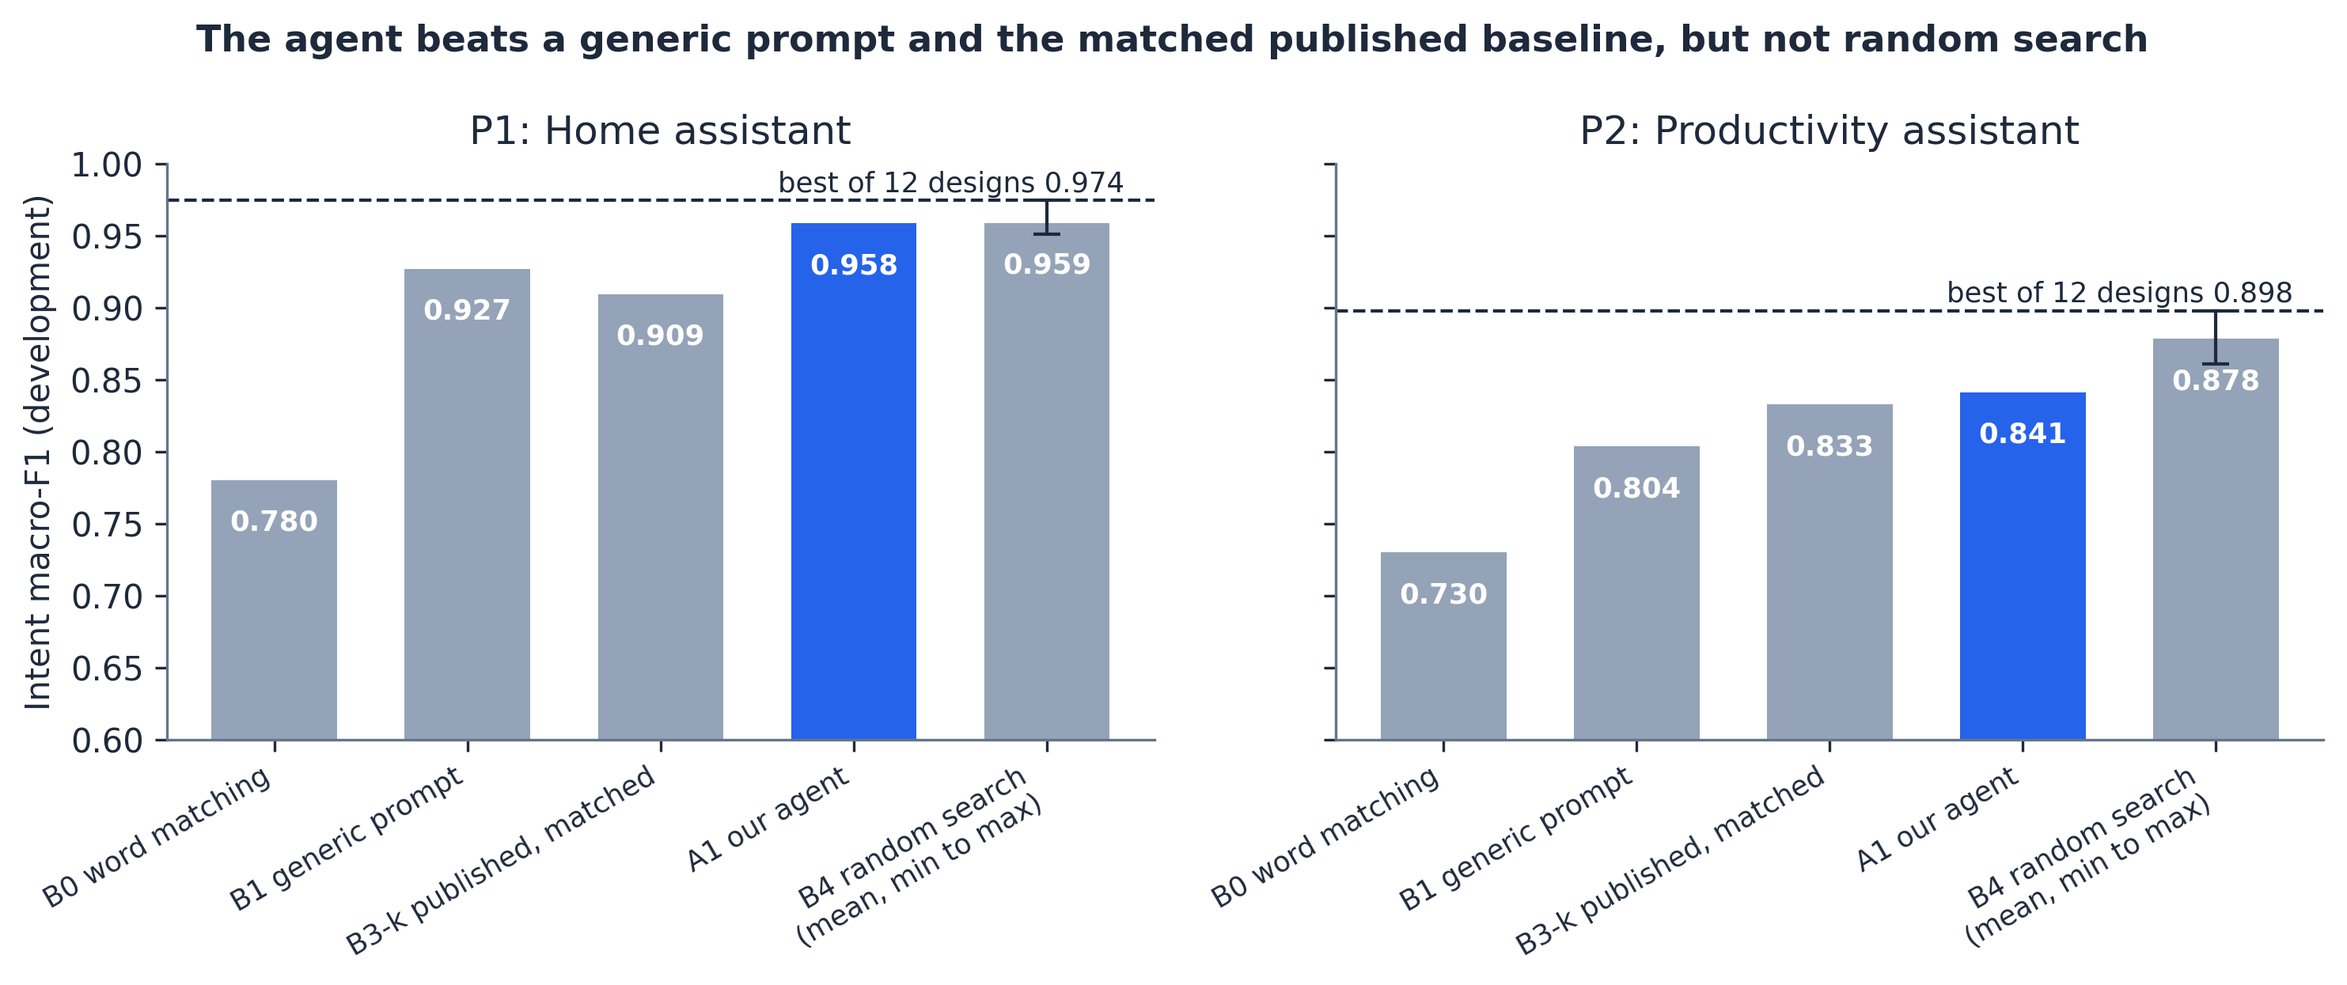
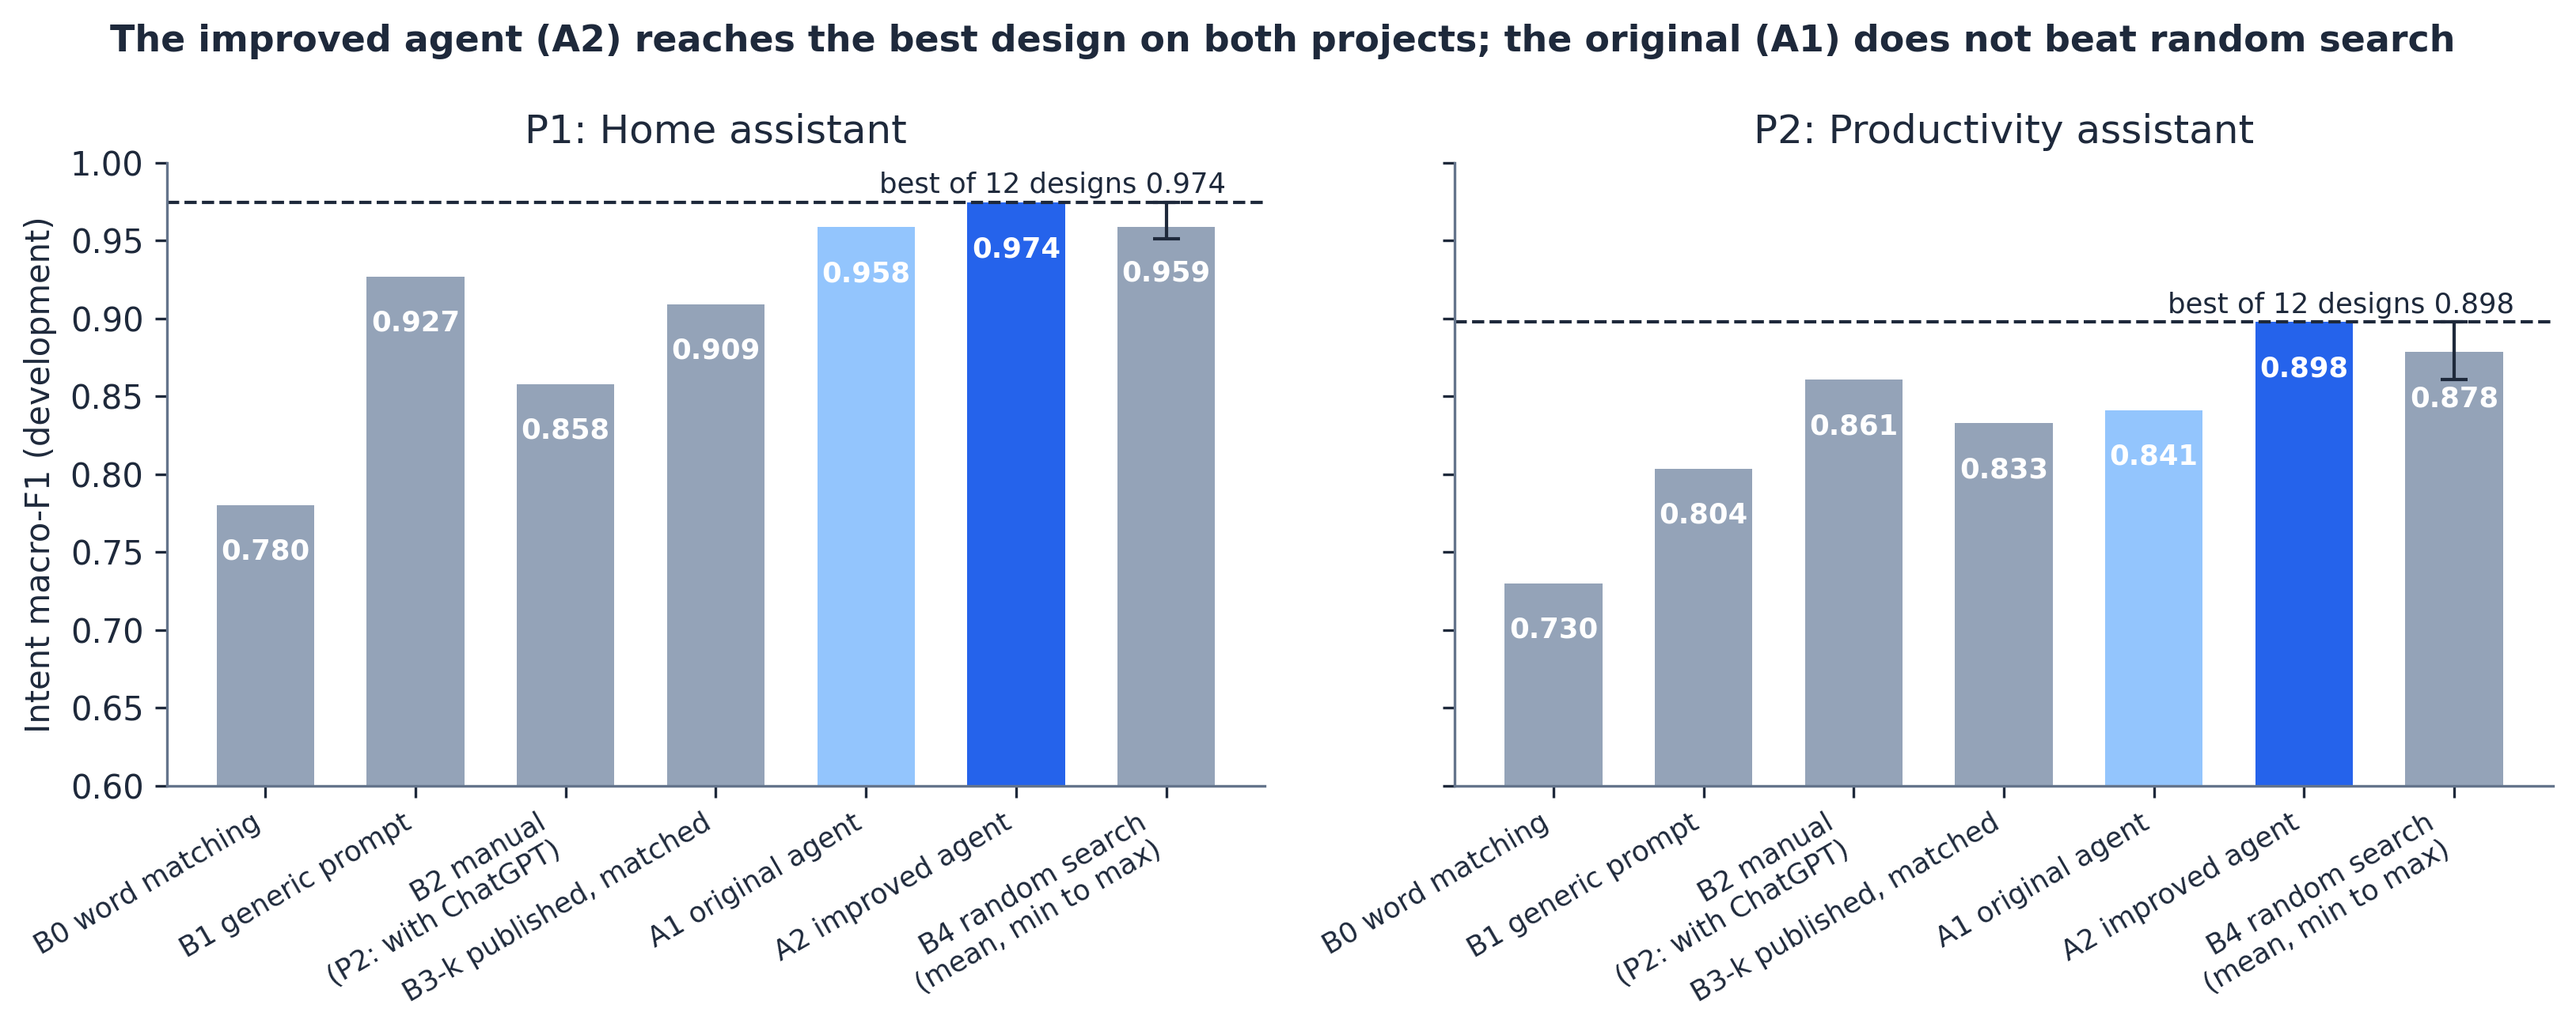
Figures include A2 and B2

diff --git a/scripts/make_figures.py b/scripts/make_figures.py
@@ -24,7 +24,8 @@ ROOT = Path(__file__).resolve().parents[1]
 RUNS = ROOT / "runs"
 OUT = ROOT / "reports" / "figures"
 
-AGENT = "#2563eb"   # the system under study
+AGENT = "#2563eb"   # the system under study (A2, the improved agent)
+A1_COL = "#93c5fd"  # the original agent
 OTHER = "#94a3b8"   # baselines
 REF = "#cbd5e1"     # references that are not matched comparisons
 INK = "#1e293b"
@@ -79,8 +80,9 @@ def save(fig, name: str, caption: str) -> None:
 
 def fig_main() -> None:
     systems = [("B0 word matching", "B0", OTHER), ("B1 generic prompt", "B1", OTHER),
-               ("B3-k published, matched", "B3-k", OTHER), ("A1 our agent", "A1", AGENT)]
-    fig, axes = plt.subplots(1, 2, figsize=(10, 4.2), sharey=True)
+               ("B2 manual\n(P2: with ChatGPT)", "B2", OTHER), ("B3-k published, matched", "B3-k", OTHER),
+               ("A1 original agent", "A1", A1_COL), ("A2 improved agent", "A2", AGENT)]
+    fig, axes = plt.subplots(1, 2, figsize=(11, 4.4), sharey=True)
     for ax, project in zip(axes, ("P1", "P2")):
         names, values, colours = [], [], []
         for label, system, colour in systems:
@@ -109,8 +111,8 @@ def fig_main() -> None:
         ax.set_ylim(0.6, 1.0)
         ax.set_title(f"{project}: {'Home assistant' if project == 'P1' else 'Productivity assistant'}")
     axes[0].set_ylabel("Intent macro-F1 (development)")
-    fig.suptitle("The agent beats a generic prompt and the matched published baseline, "
-                 "but not random search", fontsize=11, fontweight="bold")
+    fig.suptitle("The improved agent (A2) reaches the best design on both projects; "
+                 "the original (A1) does not beat random search", fontsize=11, fontweight="bold")
     save(fig, "fig1_main_comparison.png",
          "Intent macro-F1 on 100 development cases per project. B4-random is 5 seeds "
          "(bar = mean, whisker = min to max). Dashed line = best of all 12 designs.")
@@ -120,16 +122,16 @@ def fig_main() -> None:
 
 
 def fig_entity() -> None:
-    systems = [("B1", OTHER), ("A1", AGENT), ("B3-k", "#475569"), ("B3-full", REF)]
-    labels = {"B1": "B1 generic prompt", "A1": "A1 our agent", "B3-k": "B3-k published, matched",
-              "B3-full": "B3-full, all data\n(reference only)"}
+    systems = [("B1", OTHER), ("A1", A1_COL), ("A2", AGENT), ("B3-k", "#475569"), ("B3-full", REF)]
+    labels = {"B1": "B1 generic prompt", "A1": "A1 original agent", "A2": "A2 improved agent",
+              "B3-k": "B3-k published, matched", "B3-full": "B3-full, all data\n(reference only)"}
     fig, axes = plt.subplots(1, 2, figsize=(10, 4), sharey=True)
-    width = 0.2
+    width = 0.16
     for ax, metric, title in zip(axes, ("intent_macro_f1", "entity_span_f1"),
                                  ("Intent macro-F1", "Entity span F1")):
         for i, (system, colour) in enumerate(systems):
             values = [primary(p, system)[metric] for p in ("P1", "P2")]
-            xs = [x + (i - 1.5) * width for x in range(2)]
+            xs = [x + (i - 2) * width for x in range(2)]
             ax.bar(xs, values, width, color=colour, label=labels[system],
                    hatch="//" if system == "B3-full" else None, edgecolor="white")
             for x, v in zip(xs, values):
@@ -139,9 +141,9 @@ def fig_entity() -> None:
         ax.set_title(title)
     axes[0].set_ylabel("Score (development)")
     handles, names = axes[0].get_legend_handles_labels()
-    fig.legend(handles, names, loc="lower center", ncol=4, frameon=False, fontsize=8.5,
+    fig.legend(handles, names, loc="lower center", ncol=5, frameon=False, fontsize=8.5,
                bbox_to_anchor=(0.5, -0.08))
-    fig.suptitle("The agent is strong on intent but weakest on entity extraction",
+    fig.suptitle("A2 lifts entity extraction above B1 and B3-k; B3-full, with 10-30x more data, stays the reference",
                  fontsize=11, fontweight="bold")
     save(fig, "fig2_intent_vs_entity.png",
          "B3-full trains on 10 to 30 times more data and is an upper reference, not a matched comparison.")

diff --git a/reports/figures/SOURCES.md b/reports/figures/SOURCES.md
@@ -4,14 +4,18 @@ Generated by `python scripts/make_figures.py`. Every value is read from the run 
 
 - P1 B0: `20261011_1614_P1_B0_0`
 - P1 B1: `20261013_0110_P1_B1_0`
+- P1 B2: `20261024_1622_P1_B2_0`
 - P1 B3-k: `20261015_2240_P1_B3-k_0`
 - P1 A1: `20261013_0110_P1_A1_0`
+- P1 A2: `20261024_1648_P1_A2_0`
 - P1 B4-random: `20261013_0112_P1_B4-random_seeds`
 - P1 all 12 designs: `20261013_0112_P1_B4-exhaustive_0`
 - P2 B0: `20261011_1614_P2_B0_0`
 - P2 B1: `20261013_0112_P2_B1_0`
+- P2 B2: `20261024_1630_P2_B2_0`
 - P2 B3-k: `20261015_2308_P2_B3-k_0`
 - P2 A1: `20261013_0112_P2_A1_0`
+- P2 A2: `20261024_1648_P2_A2_0`
 - P2 B4-random: `20261013_0115_P2_B4-random_seeds`
 - P2 all 12 designs: `20261013_0115_P2_B4-exhaustive_0`
 
